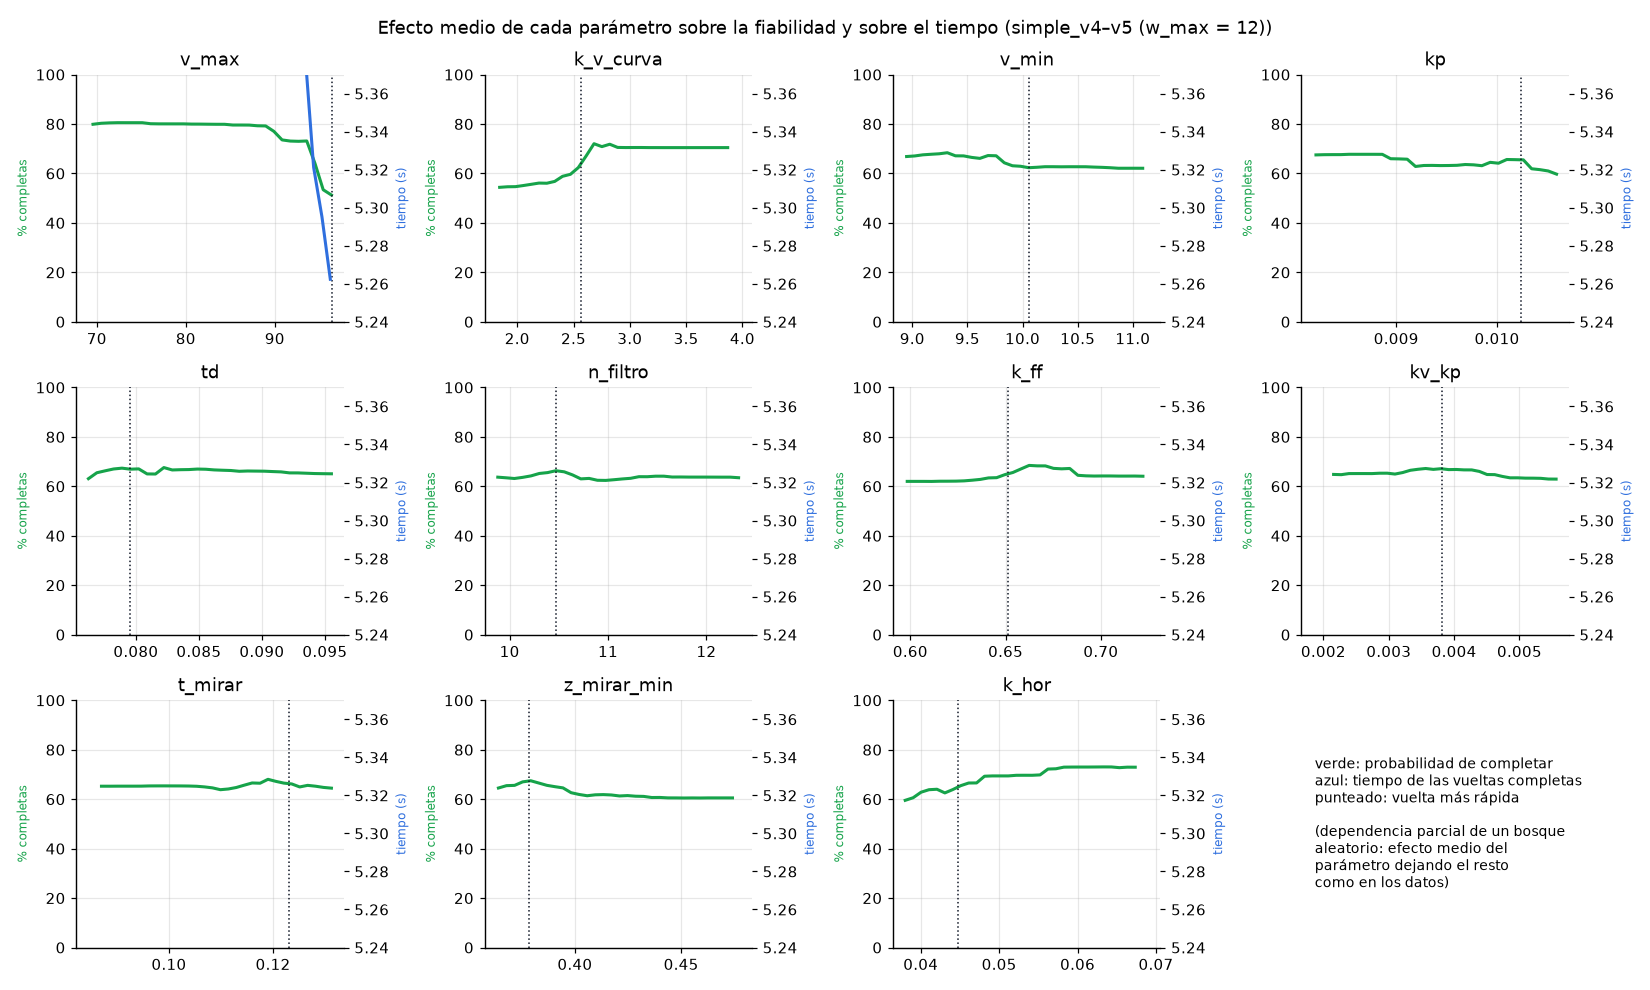
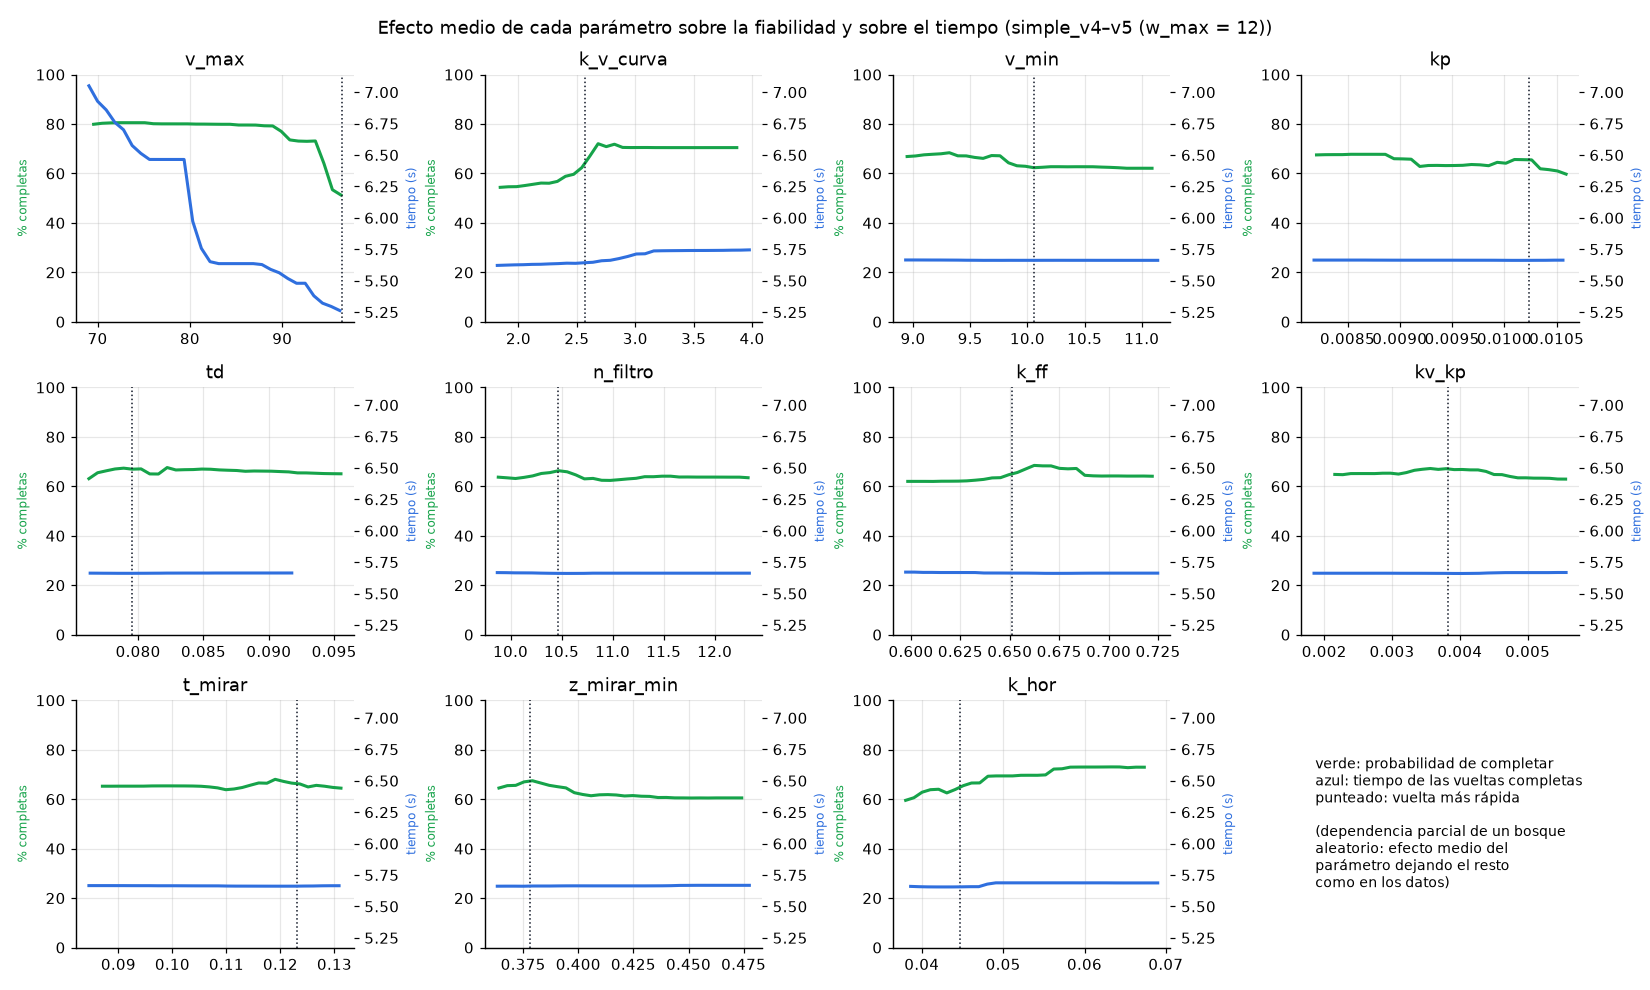
Barridos sobre #775: w_max = 14 y k_v_curva bajo, 5.19 s en 34/40; simple_v6
- Barrido de w_max sobre #775: 14 es el mejor (13/20). 12 falla en la chicane
  norte por saturación; 16-18 se pasan en la primera curva (~43 m).
- Barridos de k_v_curva con w_max = 14 (1.2-3.2): frenar menos acelera.
  1.8 -> 5.19 s en 34/40 (preset w14_v95_kvc18); 1.2 -> 5.12 s en 15/20
  (preset w14_v95_kvc12).
- config_v6.json (simple_v6): w_max = 14 fijo, k_v_curva en [1.0, 2.2],
  v_max en [93, 100] y +-20 % alrededor de #775.
- barrido.py repite las vueltas con timeout (play cortado).
- macro_analisis.py ignora barridos sin vueltas; figuras regeneradas.
- ESTUDIO_PID §16, PLAN §5.13 y README.

diff --git a/tools/optimizador/barrido.py b/tools/optimizador/barrido.py
@@ -113,7 +113,8 @@ async def correr(a, cfg, base, valores, ruta):
                         print("[barrido] el panel se cerró; reconectando...", flush=True)
                         await ens.conectar(sesion)
                         continue
-                    if motivo in ("sin_respuesta", "reinicio_fallido", "interrumpido", "interferencia"):
+                    # timeout: el controlador no mandó nada en t_max_ensayo (play cortado o web recargada)
+                    if motivo in ("sin_respuesta", "reinicio_fallido", "interrumpido", "interferencia", "timeout"):
                         print(f"[barrido] {a.param}={v:g} descartada ({motivo}); se repite en 5 s", flush=True)
                         await asyncio.sleep(5)
                         continue

diff --git a/tools/optimizador/macro_analisis.py b/tools/optimizador/macro_analisis.py
@@ -426,6 +426,7 @@ def tendencia(df):
 def barridos():
     titulo("8. BARRIDOS (un parámetro, resto fijo)")
     rutas = sorted(OPT.glob("barrido_*.csv"), key=lambda r: r.stem.rsplit("_", 1)[1])  # por fecha
+    rutas = [r for r in rutas if len(pd.read_csv(r))]  # un barrido recién lanzado aún no tiene vueltas
     if not rutas:
         print("No hay barridos.")
         return

diff --git a/README.md b/README.md
@@ -11,9 +11,10 @@ Controlador para el ejercicio **Follow Line** de JdeRobot Robotics Academy (ROS 
 | Giro máximo `w_max` de 6 a 12 rad/s y estudio nuevo `simple_v4` (v ≈ 75) | 6.4 s (3 de 3) · mejor vuelta 6.25 s |
 | Barrido de `v_max` con los parámetros de `simple_v4` (v = 82) | 5.92 s (mediana, 18 de 20 vueltas) |
 | Barridos de `k_hor` (0.045 a 84 m/s) y de `v_max` (v = 86) | 5.76 s (mediana, 20 de 20) · 5.56 s a v = 90 (15 de 20) |
-| Estudio `simple_v5` (v ≈ 95.5, 1338 ensayos) | **5.25 s** (4 de 4) · mejor vuelta 5.18 s |
+| Estudio `simple_v5` (v ≈ 95.5, 1338 ensayos) | 5.25 s (4 de 4) · mejor vuelta 5.18 s |
+| Barridos sobre #775: `w_max` = 14 y `k_v_curva` bajo | **5.19 s** (mediana, 34 de 40) · **5.12 s** con k_v_curva = 1.2 (15 de 20) · mejor vuelta 5.11 s |
 
-Todos los tiempos incluyen **0.35 s de reinicio**: el cronómetro arranca al pedir la vuelta a la salida, y el simulador tarda ese tiempo en colocar el coche (ver §3.1). El 5.25 s son 4.90 s de conducción.
+Todos los tiempos incluyen **0.35 s de reinicio**: el cronómetro arranca al pedir la vuelta a la salida, y el simulador tarda ese tiempo en colocar el coche (ver §3.1). El 5.19 s son 4.84 s de conducción.
 
 El plan, las medidas y las decisiones paso a paso están en [`docs/PLAN.md`](docs/PLAN.md). El análisis de todos los ensayos (qué parámetros importan, hacia dónde tiende el PID y qué limita la vuelta) está en [`docs/ESTUDIO_PID.md`](docs/ESTUDIO_PID.md).
 
@@ -159,6 +160,7 @@ J = t_{vuelta} + 0.5\,\frac{e_{rms}}{100} + 0.1\cdot\text{cambios de signo de } 
 | `tools/optimizador/config.json` | `simple_v3` | w_max = 6. 1790 ensayos y 6 generaciones; mejor resultado 8.95 s (3/3) |
 | `tools/optimizador/config_v4.json` | `simple_v4` | w_max = 12, sin importar `simple_v3` (sus fallos se debían a la saturación) y ventanas centradas en su mejor. 273 ensayos, 94 % de vueltas completas |
 | `tools/optimizador/config_v5.json` | `simple_v5` | v_max en [84, 92], k_hor en [0.035, 0.06] y ventanas de ±20 % alrededor de `simple_v4` #194. Cada candidato se confirma 5 veces. 1338 ensayos (g0–g6): la ventana de v_max subió sola hasta 93–102, con 5.25 s en 4 de 4 a v_max = 95.5 |
+| `tools/optimizador/config_v6.json` | `simple_v6` | w_max = 14 fijo, k_v_curva en [1.0, 2.2], v_max en [93, 100] y ±20 % alrededor de #775. Semillas `w14_v95_kvc18` y `w14_v95_kvc12` (en marcha) |
 
 `tools/optimizar.sh --informe simple_v4` genera estas gráficas (las de abajo son de `simple_v4_g7`, 266 ensayos):
 
@@ -199,16 +201,17 @@ tools/barrido.sh --base optuna_simple_v4 --param v_max --valores 76,78,80,82,84,
 
 ## 4. Mejores parámetros
 
-Ensayo #775 de `simple_v5_g4`: **5.25 s de mediana en 4 de 4 vueltas** (J media 6.65), guardado como preset `w12_v95_n775`. Ojo: a ≥ 92 m/s, de los parámetros que completan la primera vuelta solo el 64 % completa las repeticiones, así que 4 de 4 todavía no garantiza fiabilidad (ESTUDIO_PID.md §15). El mejor fiable medido con 20 vueltas sigue siendo **5.76 s en 20 de 20** (`simple_v4` #194 con v_max = 86 y k_hor = 0.045, preset `w12_v86_kh045`).
+#775 de `simple_v5` con **w_max = 14 y k_v_curva = 1.8: 5.19 s de mediana en 34 de 40 vueltas** (85 %), preset `w14_v95_kvc18`. Con k_v_curva = 1.2 baja a **5.12 s**, pero completa 15 de 20 (preset `w14_v95_kvc12`). Barridos en ESTUDIO_PID.md §16. El estudio `simple_v6` sigue a partir de aquí.
 
 | Parámetros | v_max | k_v_curva | v_min | kp | td | n_filtro | k_ff | kv_kp | t_mirar | z_mirar_min | k_hor | w_max | ti |
 |---|---|---|---|---|---|---|---|---|---|---|---|---|---|
+| #775 con w_max 14 y k_v_curva 1.8 (5.19 s, 34/40) | 95.5 | 1.8 | 9.79 | 0.0103 | 0.0782 | 10.3 | 0.657 | 0.0038 | 0.124 | 0.385 | 0.0438 | 14 | 0 |
 | `simple_v5` #775 (5.25 s, 4/4) | 95.5 | 2.63 | 9.79 | 0.0103 | 0.0782 | 10.3 | 0.657 | 0.0038 | 0.124 | 0.385 | 0.0438 | 12 | 0 |
 | `simple_v4` #194 en el barrido (5.76 s, 20/20) | 86 | 2.24 | 10.5 | 0.00860 | 0.0858 | 12.1 | 0.598 | 0.0033 | 0.105 | 0.462 | 0.045 | 12 | 0 |
 
 **Qué limita ahora la vuelta:**
 
-- **La chicane norte (350–360 m).** A ≥ 92 m/s concentra el 67 % de los fallos. Allí el giro va saturado en w_max = 12 la mitad del tiempo, tanto en las vueltas que pasan como en las que chocan, y el coche va ~180 px desviado de la línea. Por encima de 96 m/s se completa menos de la mitad de las vueltas (`docs/ESTUDIO_PID.md` §15).
+- **La primera curva (~43 m y ~72 m) y la chicane norte (350–360 m).** Con w_max = 12 la chicane norte concentraba el 67 % de los fallos por saturación del giro; con w_max = 14 casi deja de fallar, pero a partir de 16 el coche se pasa en la primera curva. Esa curva va al límite en todas las vueltas: a 95 m/s el coche solo la ve ~2 fotogramas antes, y el resultado depende del fotograma en que la detecta. Si se frena poco en curva (k_v_curva < 1.6), vuelve a fallar la chicane (`docs/ESTUDIO_PID.md` §15–16).
 - **La velocidad.** A 95 m/s el coche va al 85 % de `v_max` de media (el 94 % a 75), porque frena más en curva. De 94 a 96 m/s la mediana solo baja 0.06 s.
 - **La cámara.** Ve la línea a 12.7 m como mucho: 3 fotogramas de anticipación a 86 m/s y 2.7 a 95.
 - **La banda del horizonte.** Su ganancia buena baja con la velocidad (0.064 a 75 m/s, 0.04–0.045 a 84–96). Filtrar `e_hor` no sirve: retrasarlo un fotograma vuelve inestable el giro (0 de 20 vueltas, `docs/ESTUDIO_PID.md` §14).
@@ -226,8 +229,8 @@ docker run -d --rm --name robotics --device /dev/dri --gpus all \
 tools/panel.sh                                   # panel en http://localhost:8050
 # En unibotics.org (ejercicio Follow Line, simulador local): pegar src/follow_line.py y pulsar play.
 # El puerto 7163 es la conexión de la web con el contenedor, no una página.
-tools/optimizar.sh tools/optimizador/config_v5.json   # optimizador (opcional)
-tools/optimizar.sh --informe simple_v5                # informe del estudio
+tools/optimizar.sh tools/optimizador/config_v6.json   # optimizador (opcional)
+tools/optimizar.sh --informe simple_v6                # informe del estudio
 tools/barrido.sh --help                               # barrido de un parámetro
 uv run --with pandas --with scikit-learn --with matplotlib --with scipy \
   python tools/optimizador/macro_analisis.py          # macroanálisis → docs/img/estudio/

diff --git a/docs/ESTUDIO_PID.md b/docs/ESTUDIO_PID.md
@@ -652,3 +652,58 @@ Comparando 723 vueltas completas y 553 fallidas a v_max ≥ 93 tramo a tramo (30
   2. **`k_v_curva` = 2.6, 2.8, 3.0 y 3.2:** si basta con frenar algo más en curva (la palanca de la tabla de arriba).
 - Antes de dar por bueno el #775, confirmarlo con 20 vueltas: a esta velocidad, 4 de 4 no basta.
 
+
+## 16. Barridos sobre #775: w_max = 14 y k_v_curva bajo (2026-11-07, 21:45–22:25)
+
+Datos: 6 barridos de 20 vueltas por valor sobre el preset `w12_v95_n775` (v_max = 95.5), en
+`logs/optuna/barrido_*_20261107-*.csv`. Se comprueban las dos hipótesis de §15.
+
+![Barridos](img/estudio/09_barridos.png)
+
+### w_max (hipótesis 1)
+
+| w_max | Completas | Mediana | Fallos en la salida (~43 m) | Fallos en la chicane norte (~350 m) |
+|---|---|---|---|---|
+| 12 | 8/20 (40 %) | 5.31 | 0 | 9 |
+| **14** | **13/20 (65 %)** | **5.24** | 3 | 1 |
+| 16 | 9/20 (45 %) | 5.26 | 9 | 1 |
+| 18 | 7/20 (35 %) | 5.25 | 9 | 3 |
+
+- **Confirmada:** con w_max ≥ 14 la chicane norte casi deja de fallar. La saturación de §15 sí era la causa.
+- Con w_max ≥ 16 aparece otro fallo: choques en la primera curva (~43 m). Esa curva va al límite en todas las vueltas,
+  también en las que terminan (e ≈ −290 px de 320 y giro casi al máximo). A 95 m/s el coche avanza ~3.5 m entre
+  fotogramas y ve la curva solo ~9 m antes, así que el resultado depende del fotograma en que la detecta: si la ve a
+  32–33 m choca 1 de cada 10 veces, a 33–34 m casi 4 de cada 10. El desvío lateral en la recta no influye.
+- **w_max = 14** es el compromiso.
+
+### k_v_curva con w_max = 14 (hipótesis 2, al revés)
+
+Juntando los barridos (algunos valores se midieron dos veces):
+
+| k_v_curva | Completas | Mediana | Mínimo | Dónde falla |
+|---|---|---|---|---|
+| 1.2 | 15/20 (75 %) | **5.12** | **5.11** | chicane norte (305–352 m) |
+| 1.4 | 12/20 (60 %) | 5.14 | 5.11 | chicane y 79–130 m |
+| 1.6 | 13/20 (65 %) | 5.17 | 5.14 | chicane y ~72 m |
+| 1.8 | 34/40 (85 %) | 5.19 | 5.17 | ~72 m y chicane |
+| 2.0 | 18/20 (90 %) | 5.21 | 5.18 | ~72 m |
+| 2.2 | 33/40 (83 %) | 5.23 | 5.20 | ~72 m |
+| 2.4 | 13/20 (65 %) | 5.25 | 5.22 | ~73 m |
+| 2.6 | 31/40 (78 %) | 5.27 | 5.23 | ~43 m |
+| 2.8–3.2 | 36/60 (60 %) | 5.29–5.34 | 5.25–5.29 | casi todo a ~43 m |
+
+- **Frenar más no ayuda:** de 2.6 a 3.2 es más lento y falla más en la primera curva.
+- **Frenar menos acelera** unos 0.02 s por cada 0.2 de k_v_curva, sin un corte claro de fiabilidad hasta 1.2. Por debajo
+  de ~1.6 vuelve a mandar la chicane norte.
+- Es lo contrario que con w_max = 12 (§15: k_v_curva 1.5–2.2 completaba el 29 %): con más giro disponible, el coche ya
+  no necesita frenar tanto en curva.
+- **Ruido entre tandas:** 1.8 dio 20/20 en un barrido y 14/20 en el siguiente. Con 20 vueltas, diferencias de ±10–15
+  puntos de fiabilidad no son significativas; para comparar hay que juntar tandas.
+
+### Conclusión y siguiente
+
+- Mejor rápido: **5.12 s de mediana (15/20)** con k_v_curva = 1.2 (preset `w14_v95_kvc12`). Mejor fiable:
+  **5.19 s (34/40, 85 %)** con k_v_curva = 1.8 (preset `w14_v95_kvc18`). Los dos con w_max = 14 y el resto de #775.
+- Los barridos de un solo parámetro ya dan diferencias del tamaño del ruido. Se lanza `simple_v6` (`config_v6.json`):
+  w_max = 14 fijo, k_v_curva en [1.0, 2.2], v_max en [93, 100] y ±20 % alrededor de #775 en el resto, para que el
+  optimizador ajuste el PID y la mirada adelantada a la chicane norte con k_v_curva bajo.

diff --git a/docs/PLAN.md b/docs/PLAN.md
@@ -578,6 +578,25 @@ barrido de `w_max` y §11 para `simple_v4`). Lo regenera `tools/optimizador/macr
 5. Pendiente de antes: escalar `k_hor` con la velocidad solo si su óptimo vuelve a bajar (de 88 a 96 m/s se mantuvo en
    0.040–0.044), y probar otros circuitos.
 
+### 5.13 Barridos sobre #775 y `simple_v6` (2026-11-07)
+
+**Hecho:**
+- Barrido de `w_max` sobre #775: **14 es el mejor** (13/20). 12 falla en la chicane norte (saturación), 16–18 en la
+  primera curva (~43 m).
+- Barridos de `k_v_curva` con w_max = 14 (1.2–3.2): frenar menos acelera y no pierde fiabilidad hasta ~1.6.
+  **5.19 s en 34/40** con 1.8 (preset `w14_v95_kvc18`) y **5.12 s en 15/20** con 1.2 (preset `w14_v95_kvc12`).
+  Detalle en ESTUDIO_PID.md §16.
+- `macro_analisis.py` regenerado (la figura `03_dependencia_parcial_w12.png` ya sale bien) y corregido para ignorar
+  barridos sin vueltas. `barrido.py` repite las vueltas con «timeout» (play cortado), igual que las interrumpidas.
+- Lanzado **`simple_v6`** (`config_v6.json`): w_max = 14 fijo, k_v_curva en [1.0, 2.2], v_max en [93, 100], ±20 %
+  alrededor de #775 en el resto, semillas `w14_v95_kvc18` y `w14_v95_kvc12`.
+
+**Siguientes pasos:**
+1. Dejar correr `simple_v6` y revisarlo con `tools/optimizar.sh --informe simple_v6`.
+2. Confirmar su mejor con un barrido de 20 vueltas (por ejemplo, de `v_max` alrededor de su valor) antes de darlo por
+   fiable. Con 20 vueltas, ±10–15 puntos de fiabilidad son ruido: juntar tandas para comparar.
+3. Primera curva: probar a ver la curva antes (`t_mirar`, `z_mirar_min`) si sigue siendo el fallo principal.
+
 ## 6. Registro de progreso
 
 | Fecha | Fase | Resultado / tiempo por vuelta | Notas |
@@ -597,3 +616,4 @@ barrido de `w_max` y §11 para `simple_v4`). Lo regenera `tools/optimizador/macr
 | 2026-11-06 | 3 | 6.35 s (w_max = 20, v_max = 75.1; −0.02 s frente a w_max = 12) | Barrido de w_max 12–20 a 75 m/s: sin cambio de fiabilidad. Nuevo límite: la banda del horizonte sin filtrar a ≥ 80 m/s (5.9) |
 | 2026-11-06 | 3 | **5.76 s** (mediana, 20/20; v_max = 86, k_hor = 0.045) | Barrido de k_hor a 84 (óptimo 0.04–0.05) y de v_max 84–90 (5.56 s a 90, 15/20). Filtro de e_hor descartado (0/20). Estudio simple_v5 lanzado (5.11) |
 | 2026-11-06 | 3 | **5.25 s, 4 de 4** (#775 de simple_v5: v_max = 95.5, k_hor = 0.044, k_v_curva = 2.63); mejor vuelta 5.18 s | 1338 ensayos (g0–g6). Techo en la chicane norte (67 % de los fallos, giro saturado la mitad del tiempo). Macroanálisis regenerado con figuras para w_max = 12 (5.12) |
+| 2026-11-07 | 3 | **5.19 s** (mediana, 34/40; #775 con w_max = 14 y k_v_curva = 1.8) · 5.12 s con k_v_curva = 1.2 (15/20) | Barridos de w_max (14 mejor) y k_v_curva (1.2–3.2) sobre #775. Lanzado simple_v6 (5.13) |
